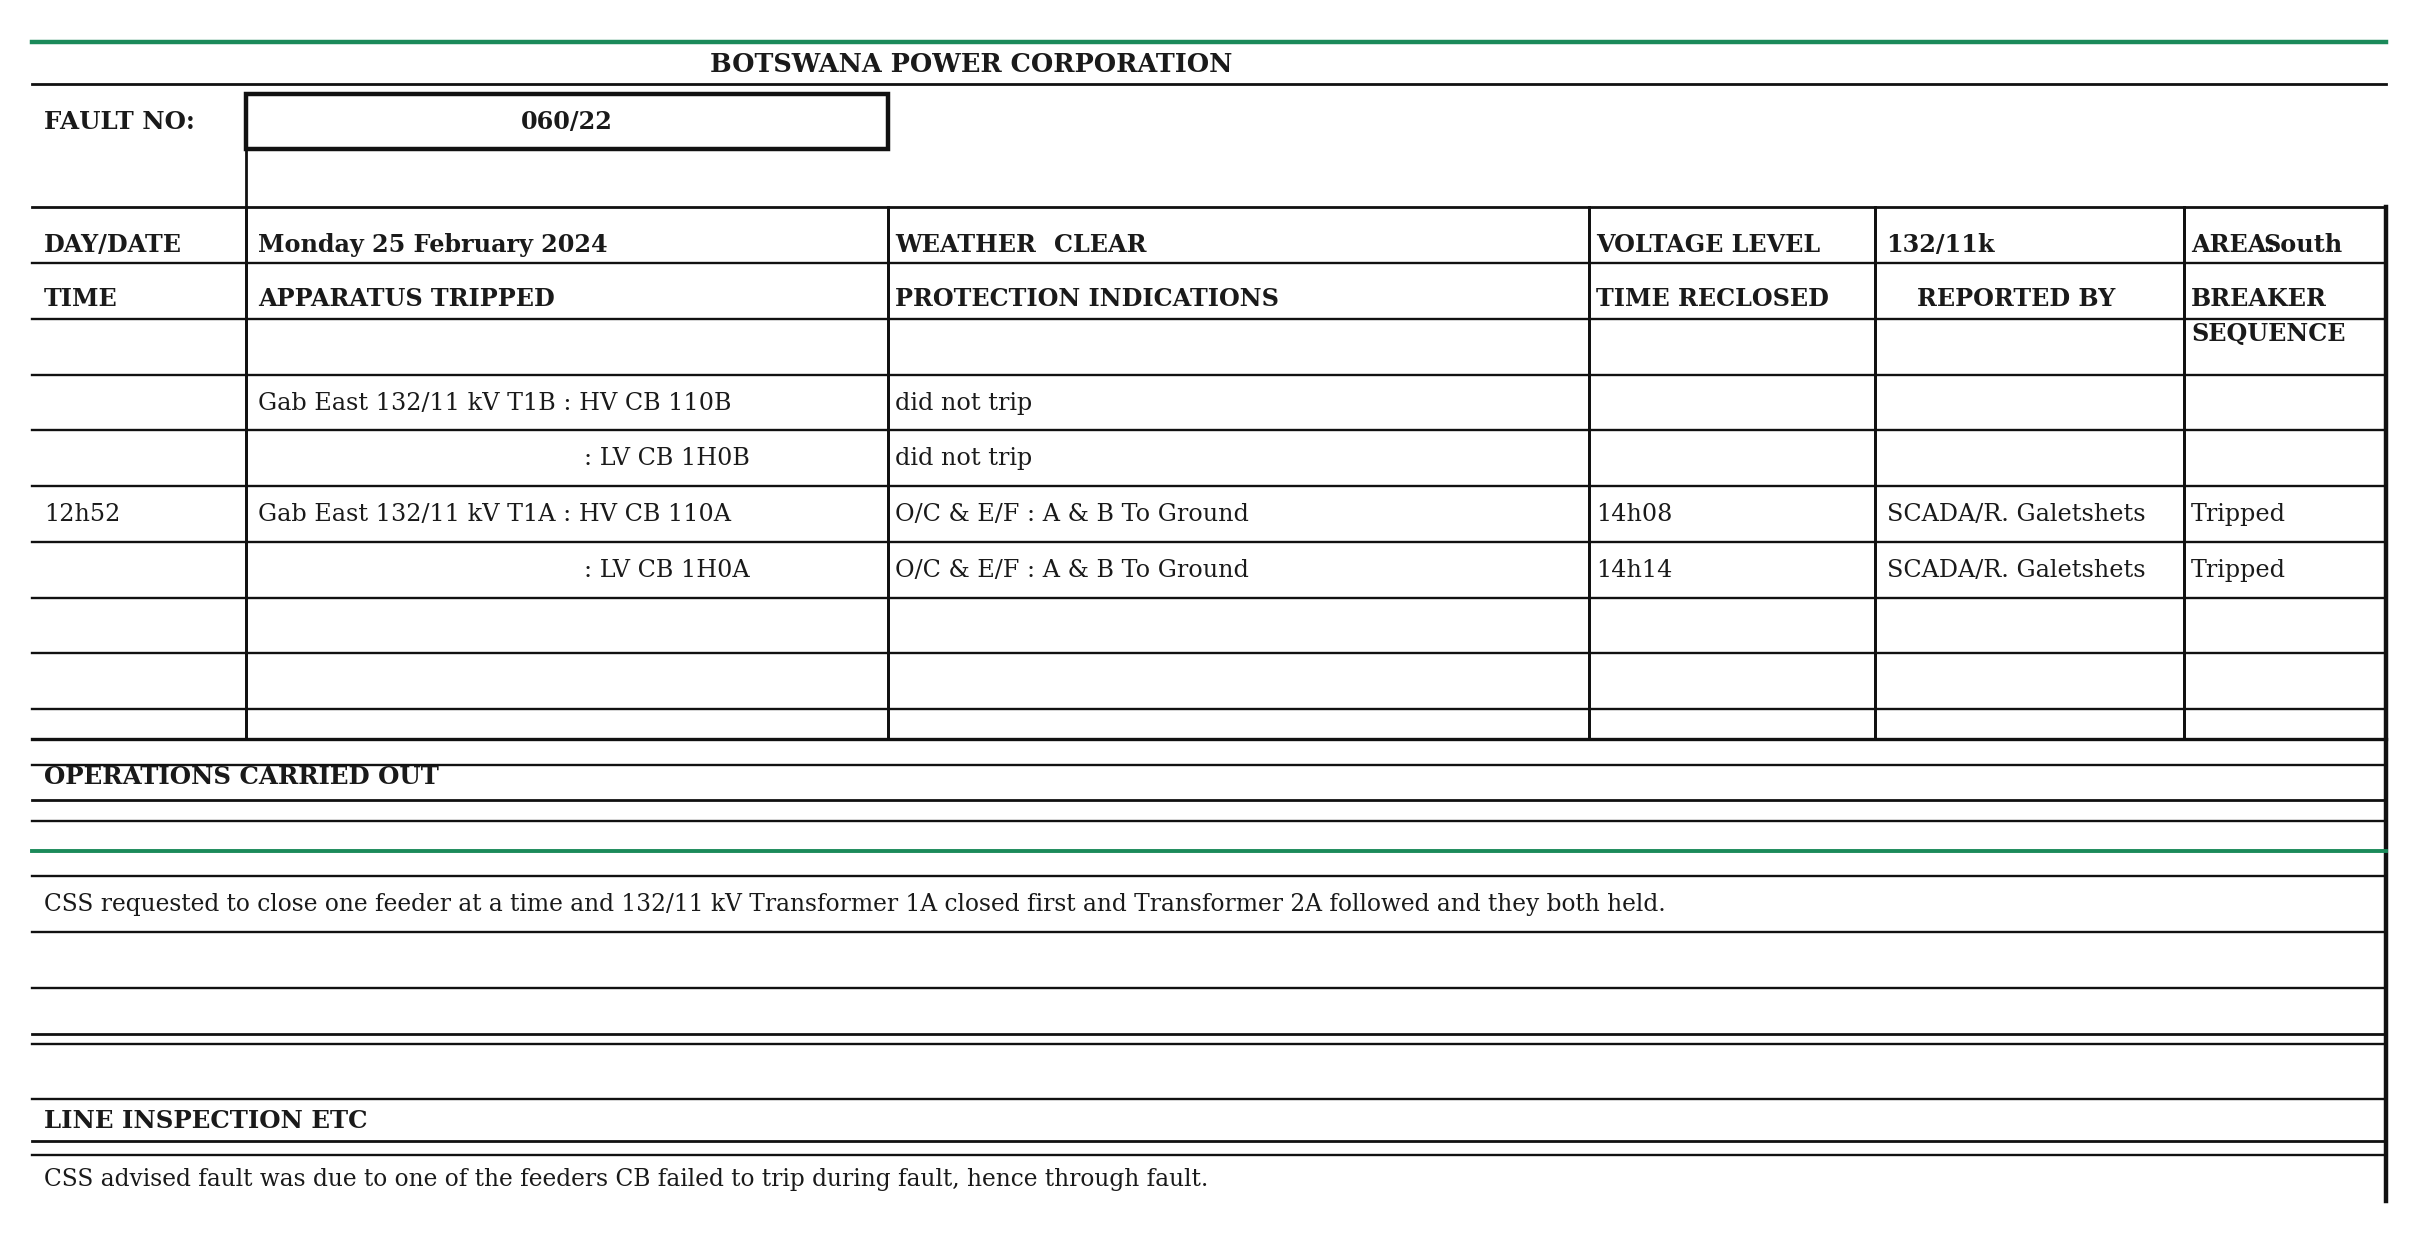
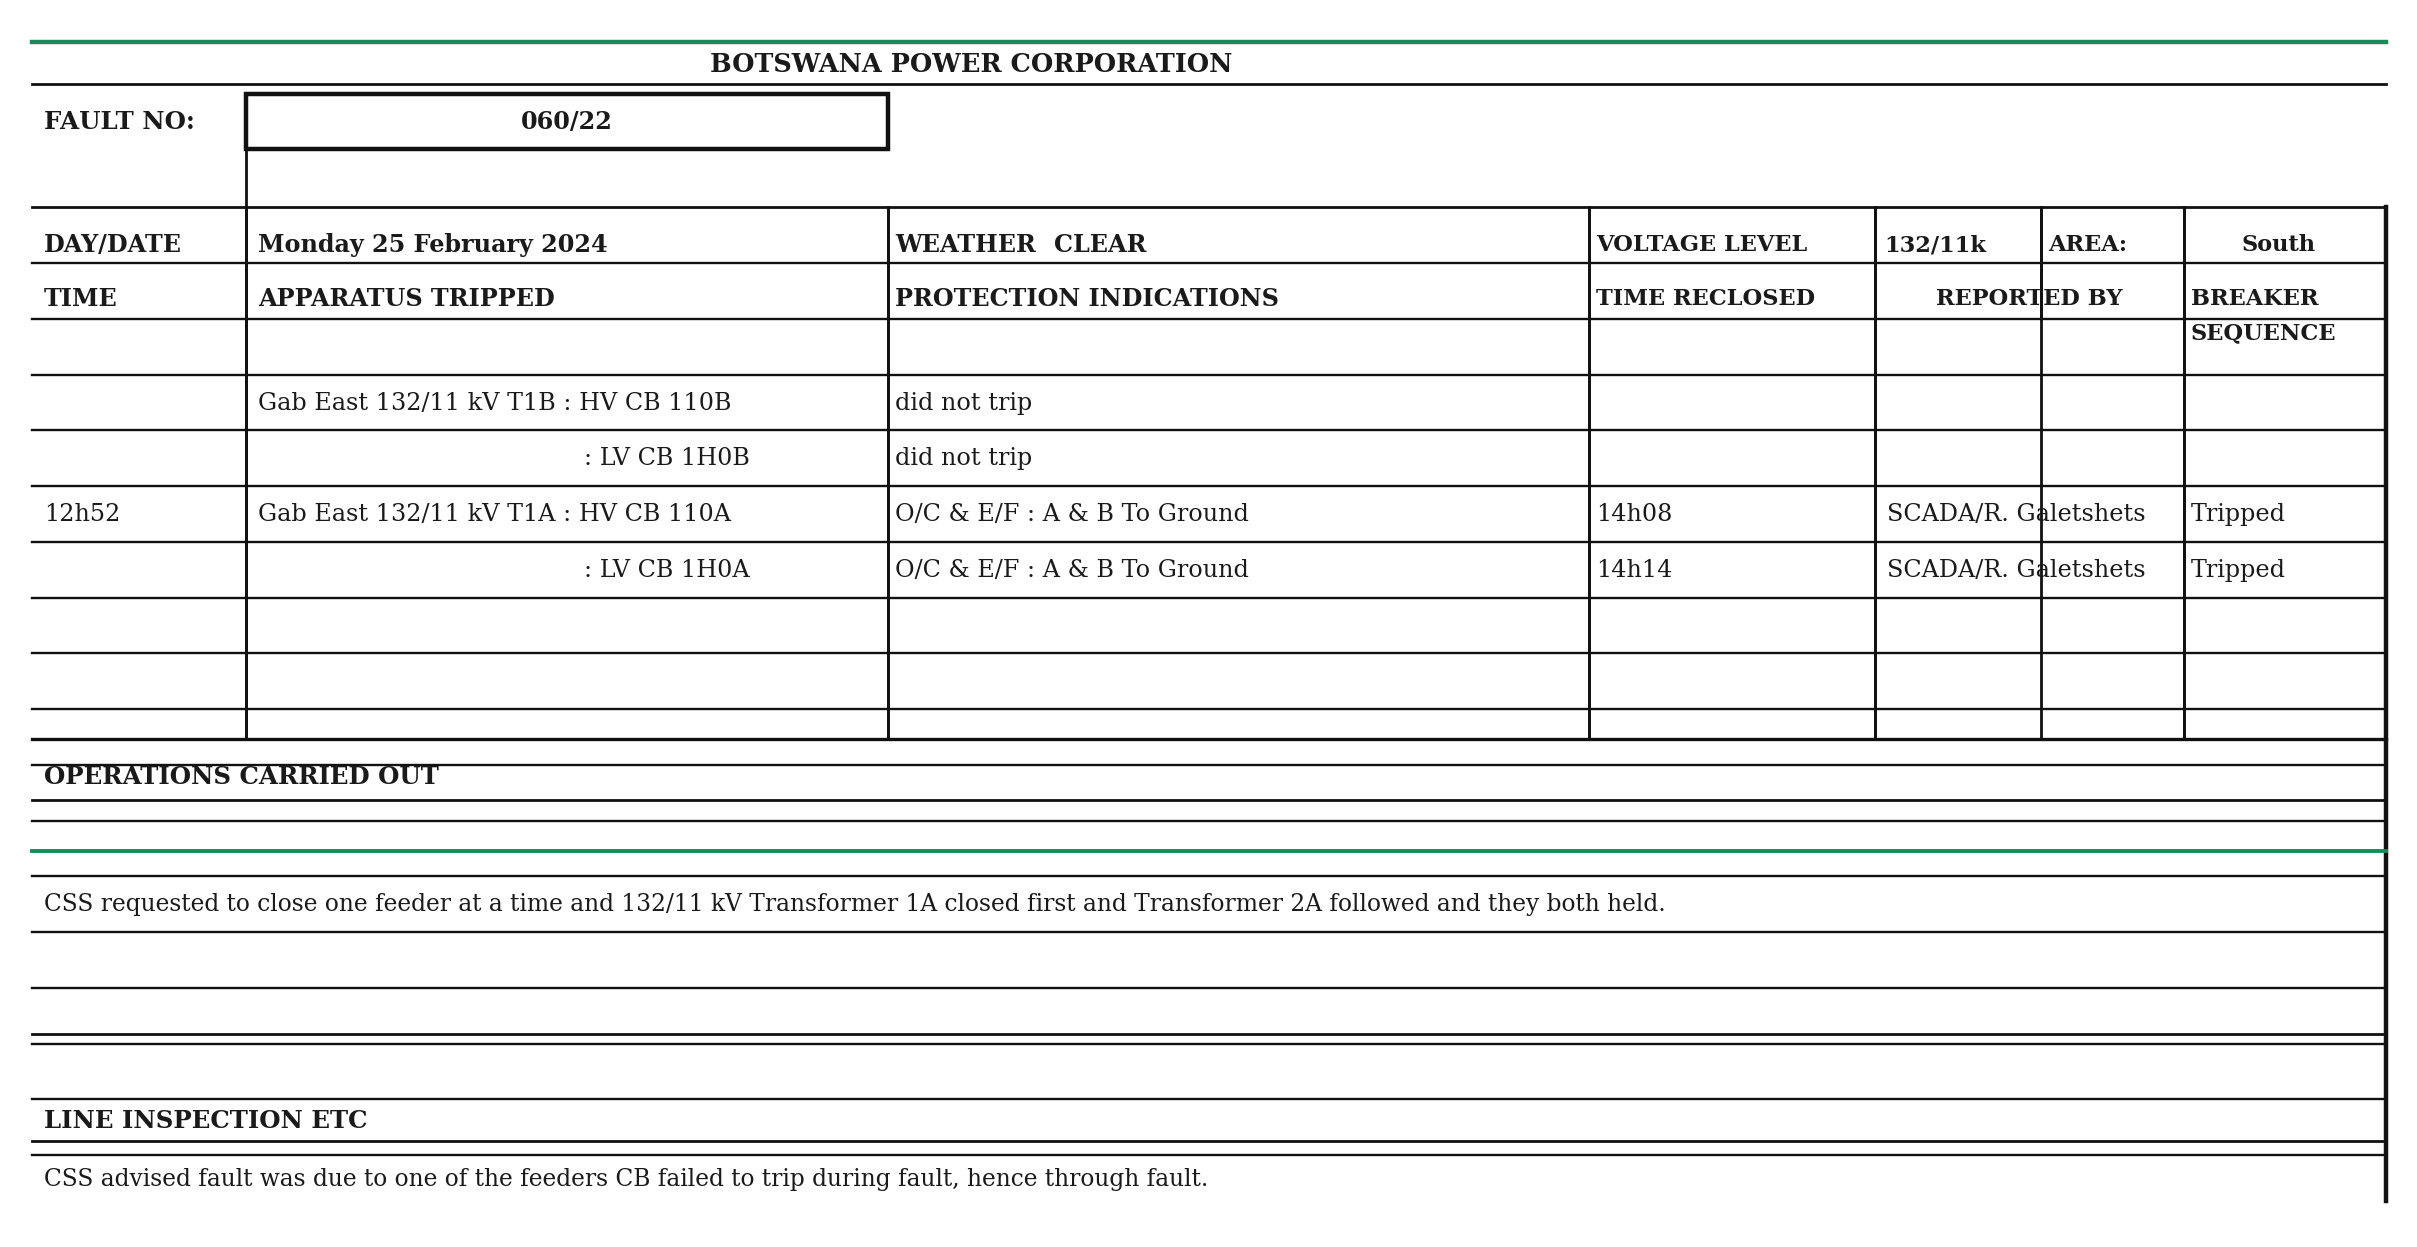
BPC excel

Changed region(s): [[0.8999, 0.1828, 0.9619, 0.2743], [0.7758, 0.1828, 0.8688, 0.2438], [0.6516, 0.1828, 0.7447, 0.2438]]

diff --git a/scripts/generate_fault_sheet_xlsx.py b/scripts/generate_fault_sheet_xlsx.py
@@ -1,0 +1,156 @@
+from __future__ import annotations
+
+from pathlib import Path
+
+from openpyxl import Workbook
+from openpyxl.styles import Alignment, Border, Font, PatternFill, Side
+
+
+ROOT = Path(__file__).resolve().parents[1]
+OUTPUT_PATH = ROOT / "outputs" / "reports" / "fault_sheet_replica.xlsx"
+
+
+def apply_border(ws, cell_range: str, *, medium_outline: bool = False) -> None:
+    thin = Side(style="thin", color="000000")
+    medium = Side(style="medium", color="000000")
+    rows = ws[cell_range]
+    row_count = len(rows)
+    col_count = len(rows[0])
+    for r_idx, row in enumerate(rows):
+        for c_idx, cell in enumerate(row):
+            left = medium if c_idx == 0 and medium_outline else thin
+            right = medium if c_idx == col_count - 1 and medium_outline else thin
+            top = medium if r_idx == 0 and medium_outline else thin
+            bottom = medium if r_idx == row_count - 1 and medium_outline else thin
+            cell.border = Border(left=left, right=right, top=top, bottom=bottom)
+
+
+def style_cell(cell, *, bold: bool = False, size: int = 11, align: str = "left") -> None:
+    cell.font = Font(name="Times New Roman", size=size, bold=bold)
+    cell.alignment = Alignment(horizontal=align, vertical="center", wrap_text=True)
+
+
+def main() -> None:
+    OUTPUT_PATH.parent.mkdir(parents=True, exist_ok=True)
+
+    wb = Workbook()
+    ws = wb.active
+    ws.title = "Fault Sheet"
+    ws.sheet_view.showGridLines = False
+
+    widths = {
+        "A": 11,
+        "B": 22,
+        "C": 18,
+        "D": 18,
+        "E": 20,
+        "F": 14,
+        "G": 18,
+        "H": 14,
+        "I": 12,
+    }
+    for column, width in widths.items():
+        ws.column_dimensions[column].width = width
+
+    for row in range(1, 25):
+        ws.row_dimensions[row].height = 22
+    ws.row_dimensions[1].height = 8
+    ws.row_dimensions[2].height = 20
+    ws.row_dimensions[4].height = 24
+    ws.row_dimensions[5].height = 26
+    ws.row_dimensions[16].height = 28
+    ws.row_dimensions[21].height = 28
+
+    green_fill = PatternFill(fill_type="solid", fgColor="1B8A5A")
+
+    for cell_ref in ["A1", "B1", "C1", "D1", "E1", "F1", "G1", "H1"]:
+        ws[cell_ref].fill = green_fill
+
+    ws.merge_cells("B2:E2")
+    ws["B2"] = "BOTSWANA POWER CORPORATION"
+    style_cell(ws["B2"], bold=True, align="center")
+
+    ws["A3"] = "FAULT NO:"
+    style_cell(ws["A3"], bold=True)
+    ws.merge_cells("B3:C3")
+    ws["B3"] = "060/22"
+    style_cell(ws["B3"], bold=True, align="center")
+    apply_border(ws, "A3:C3", medium_outline=True)
+
+    ws["A5"] = "DAY/DATE"
+    ws["B5"] = "Monday 25 February 2024"
+    ws["D5"] = "WEATHER"
+    ws["E5"] = "CLEAR"
+    ws["F5"] = "VOLTAGE LEVEL"
+    ws["G5"] = "132/11k"
+    ws["H5"] = "AREA:"
+    ws["I5"] = "South"
+
+    for ref in ["A5", "D5", "F5", "H5"]:
+        style_cell(ws[ref], bold=True)
+    for ref in ["B5", "E5", "G5", "I5"]:
+        style_cell(ws[ref], bold=True)
+
+    ws["A6"] = "TIME"
+    ws["B6"] = "APPARATUS TRIPPED"
+    ws.merge_cells("D6:E6")
+    ws["D6"] = "PROTECTION INDICATIONS"
+    ws["F6"] = "TIME RECLOSED"
+    ws["G6"] = "REPORTED BY"
+    ws["H6"] = "BREAKER\nSEQUENCE"
+
+    for ref in ["A6", "B6", "D6", "F6", "G6", "H6"]:
+        style_cell(ws[ref], bold=True)
+
+    ws["B8"] = "Gab East 132/11 kV T1B : HV CB 110B"
+    ws["D8"] = "did not trip"
+    ws["B9"] = ": LV CB 1H0B"
+    ws["D9"] = "did not trip"
+    ws["A10"] = "12h52"
+    ws["B10"] = "Gab East 132/11 kV T1A : HV CB 110A"
+    ws["D10"] = "O/C & E/F : A & B To Ground"
+    ws["F10"] = "14h08"
+    ws["G10"] = "SCADA/R. Galetshets"
+    ws["H10"] = "Tripped"
+    ws["B11"] = ": LV CB 1H0A"
+    ws["D11"] = "O/C & E/F : A & B To Ground"
+    ws["F11"] = "14h14"
+    ws["G11"] = "SCADA/R. Galetshets"
+    ws["H11"] = "Tripped"
+
+    for row in range(8, 16):
+        for col in range(1, 9):
+            style_cell(ws.cell(row=row, column=col), size=10)
+
+    ws.merge_cells("A16:I16")
+    ws["A16"] = "OPERATIONS CARRIED OUT"
+    style_cell(ws["A16"], bold=True)
+
+    ws.merge_cells("A18:I18")
+    ws["A18"] = (
+        "CSS requested to close one feeder at a time and 132/11 kV Transformer 1A closed first "
+        "and Transformer 2A followed and they both held."
+    )
+    style_cell(ws["A18"], size=10)
+
+    ws.merge_cells("A21:I21")
+    ws["A21"] = "LINE INSPECTION ETC"
+    style_cell(ws["A21"], bold=True)
+
+    ws.merge_cells("A22:I22")
+    ws["A22"] = (
+        "CSS advised fault was due to one of the feeders CB failed to trip during fault, "
+        "hence through fault."
+    )
+    style_cell(ws["A22"], size=10)
+
+    apply_border(ws, "A5:I15", medium_outline=True)
+    apply_border(ws, "A16:I18", medium_outline=True)
+    apply_border(ws, "A21:I22", medium_outline=True)
+
+    wb.save(OUTPUT_PATH)
+    print(OUTPUT_PATH)
+
+
+if __name__ == "__main__":
+    main()

diff --git a/outputs/reports/fault_sheet_replica_overleaf.tex b/outputs/reports/fault_sheet_replica_overleaf.tex
@@ -1,0 +1,67 @@
+\documentclass[11pt]{article}
+\usepackage[a4paper,margin=1.2cm]{geometry}
+\usepackage{array}
+\usepackage{tabularx}
+\usepackage{multirow}
+\usepackage[table]{xcolor}
+\usepackage{booktabs}
+\usepackage{makecell}
+\usepackage{ragged2e}
+\usepackage[T1]{fontenc}
+
+\renewcommand{\arraystretch}{1.35}
+\setlength{\tabcolsep}{4pt}
+\newcolumntype{L}[1]{>{\RaggedRight\arraybackslash}p{#1}}
+\newcolumntype{Y}{>{\RaggedRight\arraybackslash}X}
+\newcommand{\hdr}[1]{\bfseries\footnotesize #1}
+\newcommand{\val}[1]{\footnotesize #1}
+
+\begin{document}
+\thispagestyle{empty}
+
+\begin{center}
+{\bfseries BOTSWANA POWER CORPORATION}
+\end{center}
+
+\noindent
+\begin{tabular}{|L{2.2cm}|L{6.5cm}|}
+\hline
+\bfseries FAULT NO: & \centering\arraybackslash \bfseries 060/22 \\ \hline
+\end{tabular}
+
+\vspace{0.6cm}
+
+\noindent
+\begin{tabular}{|L{2.2cm}|L{6.5cm}|L{1.8cm}|L{4.8cm}|L{3.2cm}|L{1.6cm}|L{1.9cm}|L{2.3cm}|}
+\hline
+\hdr{DAY/DATE} & \val{Monday 25 February 2024} & \hdr{WEATHER} & \val{CLEAR} & \hdr{VOLTAGE LEVEL} & \val{132/11k} & \hdr{AREA:} & \val{South} \\ \hline
+\hdr{TIME} & \hdr{APPARATUS TRIPPED} & \multicolumn{2}{L{6.6cm}|}{\hdr{PROTECTION INDICATIONS}} & \hdr{TIME RECLOSED} & \multicolumn{2}{L{3.5cm}|}{\centering\arraybackslash\hdr{REPORTED BY}} & \makecell[l]{\hdr{BREAKER}\\[-1pt]\hdr{SEQUENCE}} \\ \hline
+\end{tabular}
+
+\noindent
+\begin{tabular}{|L{2.2cm}|L{6.5cm}|L{7.3cm}|L{3.0cm}|L{2.2cm}|L{2.0cm}|}
+\hline
+ & Gab East 132/11 kV T1B : HV CB 110B & did not trip & & & \\ \hline
+ & : LV CB 1H0B & did not trip & & & \\ \hline
+12h52 & Gab East 132/11 kV T1A : HV CB 110A & O/C \& E/F : A \& B To Ground & 14h08 & SCADA/R. Galetshets & Tripped \\ \hline
+ & : LV CB 1H0A & O/C \& E/F : A \& B To Ground & 14h14 & SCADA/R. Galetshets & Tripped \\ \hline
+ & & & & & \\ \hline
+ & & & & & \\ \hline
+ & & & & & \\ \hline
+ & & & & & \\ \hline
+\end{tabular}
+
+\vspace{0.4cm}
+
+\noindent
+\begin{tabular}{|L{23.9cm}|}
+\hline
+\bfseries OPERATIONS CARRIED OUT \\ \hline
+CSS requested to close one feeder at a time and 132/11 kV Transformer 1A closed first and Transformer 2A followed and they both held. \\ \hline
+\\ \hline
+\\ \hline
+\bfseries LINE INSPECTION ETC \\ \hline
+CSS advised fault was due to one of the feeders CB failed to trip during fault, hence through fault. \\ \hline
+\end{tabular}
+
+\end{document}

diff --git a/src/scada_faults/reports.py b/src/scada_faults/reports.py
@@ -94,31 +94,32 @@ def _draw_fault_sheet_replica(output_path: Path) -> None:
     for y in [41.5, 39.1, 36.7, 34.3, 31.9, 29.5, 27.1, 24.7, 22.3, 19.9, 17.5, 15.1, 12.7, 10.3, 7.9, 5.5, 3.1]:
         hline(y, lw=0.85)
 
-    for x in [9.5, 36.5, 66.0, 78.0, 91.0]:
+    for x in [9.5, 36.5, 66.0, 78.0, 85.0, 91.0]:
         vline(x, 21.0, 43.9, lw=1.0)
     vline(99.5, 1.1, 43.9, lw=1.6)
     vline(9.5, 21.0, 48.8, lw=1.0)
     vline(36.5, 21.0, 43.9, lw=1.0)
     vline(66.0, 21.0, 43.9, lw=1.0)
     vline(78.0, 21.0, 43.9, lw=1.0)
+    vline(85.0, 39.1, 43.9, lw=1.0)
     vline(91.0, 21.0, 43.9, lw=1.0)
 
     label(1.0, 42.3, "DAY/DATE", weight="bold")
     label(10.0, 42.3, "Monday 25 February 2024", weight="bold")
     label(36.8, 42.3, "WEATHER", weight="bold")
     label(43.5, 42.3, "CLEAR", weight="bold")
-    label(66.3, 42.3, "VOLTAGE LEVEL", weight="bold")
-    label(78.5, 42.3, "132/11k", weight="bold")
-    label(91.3, 42.3, "AREA:", weight="bold")
-    label(96.0, 42.3, "South", weight="bold", ha="center")
+    label(66.3, 42.3, "VOLTAGE LEVEL", size=8.1, weight="bold")
+    label(78.4, 42.3, "132/11k", size=8.1, weight="bold")
+    label(85.3, 42.3, "AREA:", size=8.1, weight="bold")
+    label(95.0, 42.3, "South", size=8.1, weight="bold", ha="center")
 
     label(1.0, 40.0, "TIME", weight="bold")
     label(10.0, 40.0, "APPARATUS TRIPPED", weight="bold")
     label(36.8, 40.0, "PROTECTION INDICATIONS", weight="bold")
-    label(66.3, 40.0, "TIME RECLOSED", weight="bold")
-    label(79.8, 40.0, "REPORTED BY", weight="bold")
-    label(91.3, 40.0, "BREAKER", weight="bold")
-    label(91.3, 38.5, "SEQUENCE", weight="bold")
+    label(66.3, 40.0, "TIME RECLOSED", size=8.1, weight="bold")
+    label(84.5, 40.0, "REPORTED BY", size=8.1, weight="bold", ha="center")
+    label(91.3, 40.0, "BREAKER", size=8.1, weight="bold")
+    label(91.3, 38.5, "SEQUENCE", size=8.1, weight="bold")
 
     row_y = [35.5, 33.1, 30.7, 28.3]
     label(10.0, row_y[0], "Gab East 132/11 kV T1B : HV CB 110B")
